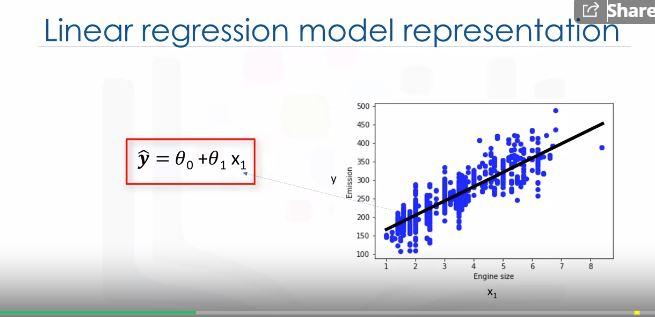
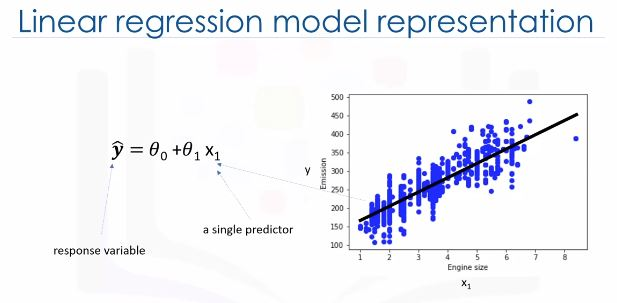
error

diff --git a/2nd week/simple linear regression.md b/2nd week/simple linear regression.md
@@ -1,2 +1,8 @@
 ### linear regression model:
-<img src="pic/simple linear .JPG" width="500px">
+<img src="pic/simple linear .JPG" width="500px"> 
+We're going to predict the target value y. In our case using the independent variable engine size represented by x1. The fit line is shown traditionally as a polynomial. In a simple regression problem, a single x, the form of the model would be theta 0 plus theta 1 x1. In this equation, y hat is the dependent variable of the predicted value. And x1 is the independent variable.
+<br>
+Theta 0 and theta 1 are the parameters of the line that we must adjust. Theta 1 is known as the slope or gradient of the fitting line and theta 0 is known as the intercept.
+
+
+<img src="pic/simple linear  1.JPG" width="500px"> 
